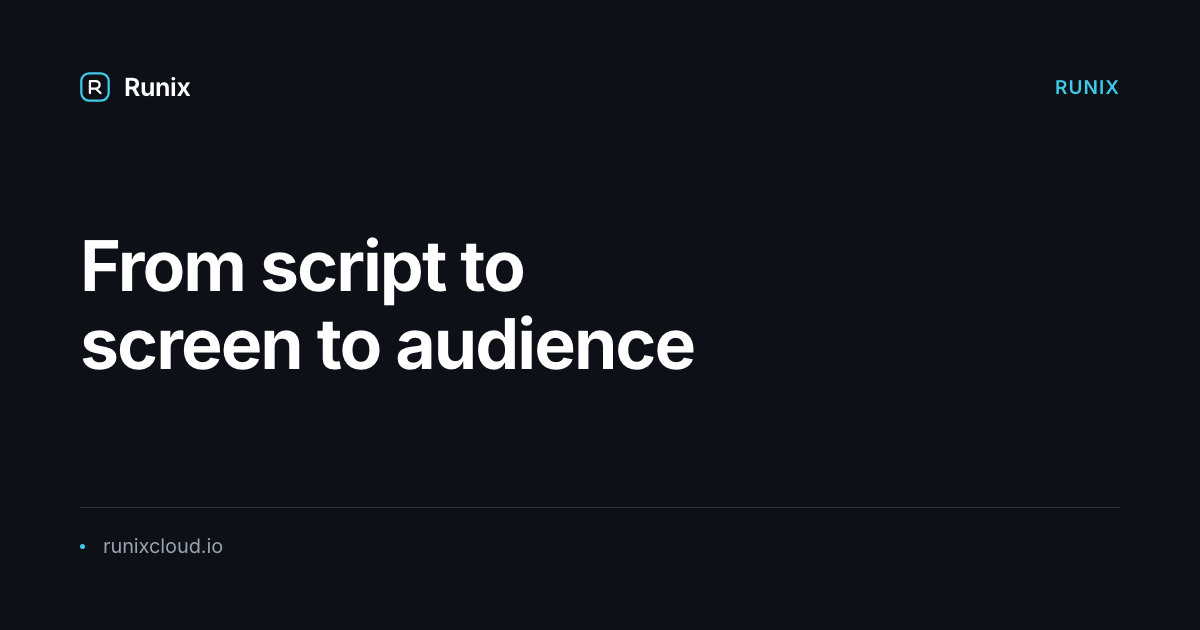
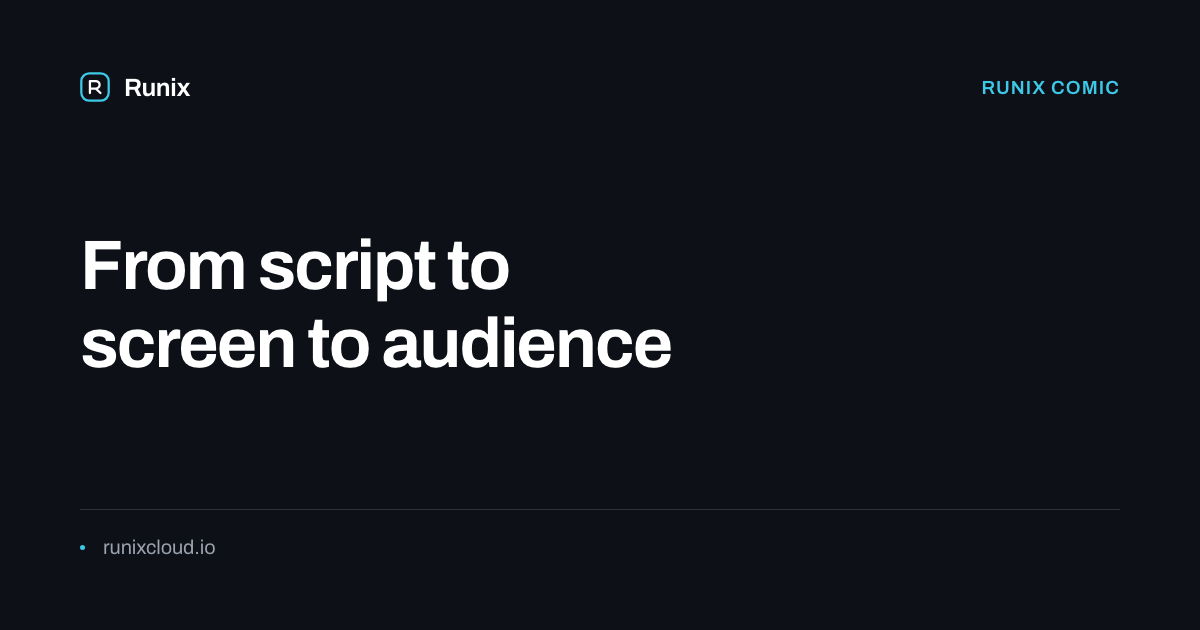
share cards: a product page's card names the product, not just the brand

diff --git a/code-plans.html b/code-plans.html
@@ -21,11 +21,11 @@
 <meta property="og:type" content="website">
 <meta property="og:url" content="https://runixcloud.io/code-plans">
 <meta property="og:site_name" content="Runix">
-<meta property="og:image" content="https://runixcloud.io/assets/og/code-plans.png?v=38ebf966">
+<meta property="og:image" content="https://runixcloud.io/assets/og/code-plans.png?v=d08bc6d9">
 <meta property="og:image:width" content="1200">
 <meta property="og:image:height" content="630">
 <meta name="twitter:card" content="summary_large_image">
-<meta name="twitter:image" content="https://runixcloud.io/assets/og/code-plans.png?v=38ebf966">
+<meta name="twitter:image" content="https://runixcloud.io/assets/og/code-plans.png?v=d08bc6d9">
 <link rel="icon" href="assets/favicon.svg?v=11" type="image/svg+xml">
 <link rel="preload" href="assets/fonts/archivo-latin.woff2?v=2" as="font" type="font/woff2" crossorigin>
 <link rel="stylesheet" href="assets/style.css?v=61">

diff --git a/pipeline.html b/pipeline.html
@@ -21,11 +21,11 @@
 <meta property="og:type" content="website">
 <meta property="og:url" content="https://runixcloud.io/pipeline">
 <meta property="og:site_name" content="Runix">
-<meta property="og:image" content="https://runixcloud.io/assets/og/pipeline.png?v=92644d43">
+<meta property="og:image" content="https://runixcloud.io/assets/og/pipeline.png?v=d664fbb3">
 <meta property="og:image:width" content="1200">
 <meta property="og:image:height" content="630">
 <meta name="twitter:card" content="summary_large_image">
-<meta name="twitter:image" content="https://runixcloud.io/assets/og/pipeline.png?v=92644d43">
+<meta name="twitter:image" content="https://runixcloud.io/assets/og/pipeline.png?v=d664fbb3">
 <link rel="icon" href="assets/favicon.svg?v=11" type="image/svg+xml">
 <link rel="preload" href="assets/fonts/archivo-latin.woff2?v=2" as="font" type="font/woff2" crossorigin>
 <link rel="stylesheet" href="assets/style.css?v=61">

diff --git a/router.html b/router.html
@@ -21,11 +21,11 @@
 <meta property="og:type" content="website">
 <meta property="og:url" content="https://runixcloud.io/router">
 <meta property="og:site_name" content="Runix">
-<meta property="og:image" content="https://runixcloud.io/assets/og/router.png?v=0dfaa9fa">
+<meta property="og:image" content="https://runixcloud.io/assets/og/router.png?v=81a4eda6">
 <meta property="og:image:width" content="1200">
 <meta property="og:image:height" content="630">
 <meta name="twitter:card" content="summary_large_image">
-<meta name="twitter:image" content="https://runixcloud.io/assets/og/router.png?v=0dfaa9fa">
+<meta name="twitter:image" content="https://runixcloud.io/assets/og/router.png?v=81a4eda6">
 <link rel="icon" href="assets/favicon.svg?v=11" type="image/svg+xml">
 <link rel="preload" href="assets/fonts/archivo-latin.woff2?v=2" as="font" type="font/woff2" crossorigin>
 <link rel="stylesheet" href="assets/style.css?v=61">

diff --git a/comic.html b/comic.html
@@ -21,11 +21,11 @@
 <meta property="og:type" content="website">
 <meta property="og:url" content="https://runixcloud.io/comic">
 <meta property="og:site_name" content="Runix">
-<meta property="og:image" content="https://runixcloud.io/assets/og/comic.png?v=c6e3e648">
+<meta property="og:image" content="https://runixcloud.io/assets/og/comic.png?v=9cd982f0">
 <meta property="og:image:width" content="1200">
 <meta property="og:image:height" content="630">
 <meta name="twitter:card" content="summary_large_image">
-<meta name="twitter:image" content="https://runixcloud.io/assets/og/comic.png?v=c6e3e648">
+<meta name="twitter:image" content="https://runixcloud.io/assets/og/comic.png?v=9cd982f0">
 <link rel="icon" href="assets/favicon.svg?v=11" type="image/svg+xml">
 <link rel="preload" href="assets/fonts/archivo-latin.woff2?v=2" as="font" type="font/woff2" crossorigin>
 <link rel="stylesheet" href="assets/style.css?v=61">

diff --git a/code.html b/code.html
@@ -21,11 +21,11 @@
 <meta property="og:type" content="website">
 <meta property="og:url" content="https://runixcloud.io/code">
 <meta property="og:site_name" content="Runix">
-<meta property="og:image" content="https://runixcloud.io/assets/og/code.png?v=36c3b687">
+<meta property="og:image" content="https://runixcloud.io/assets/og/code.png?v=e87d465b">
 <meta property="og:image:width" content="1200">
 <meta property="og:image:height" content="630">
 <meta name="twitter:card" content="summary_large_image">
-<meta name="twitter:image" content="https://runixcloud.io/assets/og/code.png?v=36c3b687">
+<meta name="twitter:image" content="https://runixcloud.io/assets/og/code.png?v=e87d465b">
 <link rel="icon" href="assets/favicon.svg?v=11" type="image/svg+xml">
 <link rel="preload" href="assets/fonts/archivo-latin.woff2?v=2" as="font" type="font/woff2" crossorigin>
 <link rel="stylesheet" href="assets/style.css?v=61">

diff --git a/fs.html b/fs.html
@@ -21,11 +21,11 @@
 <meta property="og:type" content="website">
 <meta property="og:url" content="https://runixcloud.io/fs">
 <meta property="og:site_name" content="Runix">
-<meta property="og:image" content="https://runixcloud.io/assets/og/fs.png?v=0ccffd22">
+<meta property="og:image" content="https://runixcloud.io/assets/og/fs.png?v=7be3d573">
 <meta property="og:image:width" content="1200">
 <meta property="og:image:height" content="630">
 <meta name="twitter:card" content="summary_large_image">
-<meta name="twitter:image" content="https://runixcloud.io/assets/og/fs.png?v=0ccffd22">
+<meta name="twitter:image" content="https://runixcloud.io/assets/og/fs.png?v=7be3d573">
 <link rel="icon" href="assets/favicon.svg?v=11" type="image/svg+xml">
 <link rel="preload" href="assets/fonts/archivo-latin.woff2?v=2" as="font" type="font/woff2" crossorigin>
 <link rel="stylesheet" href="assets/style.css?v=61">

diff --git a/tools/make_og.py b/tools/make_og.py
@@ -89,6 +89,13 @@ def card_fields(path, doc):
     title = _text(m.group(1)) if m else ""
     c = re.search(r'<span class="cat">([^<]*)</span>', doc)
     cat = _text(c.group(1)) if c else ""
+    # A product page names its product in the status chip ("Runix FS · Early
+    # access"); that is the label a shared link should carry, rather than the
+    # bare brand every product card used to show.
+    if not cat:
+        b = re.search(r'<span class="badge">([^<]*?)\s*\u00b7', doc)
+        if b and _text(b.group(1)).startswith("Runix "):
+            cat = _text(b.group(1))
     if not cat:
         cat = "Docs" if path.startswith("docs/") else "Runix"
     foot = "runixcloud.io"
